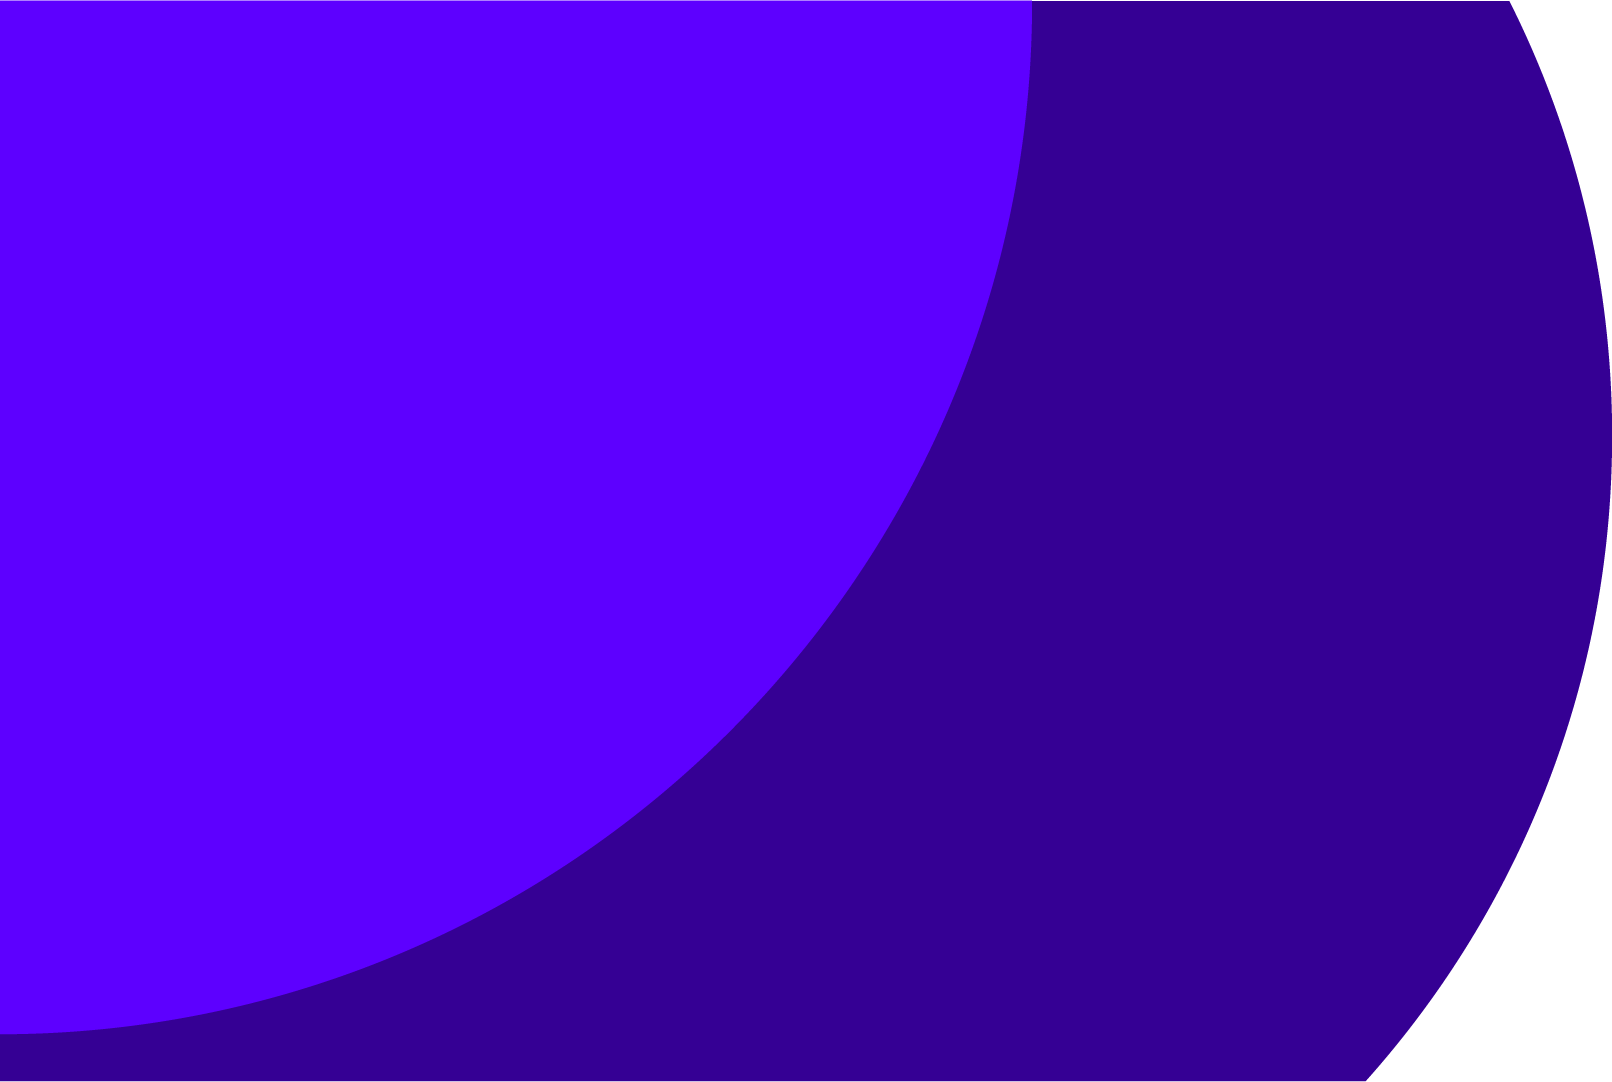
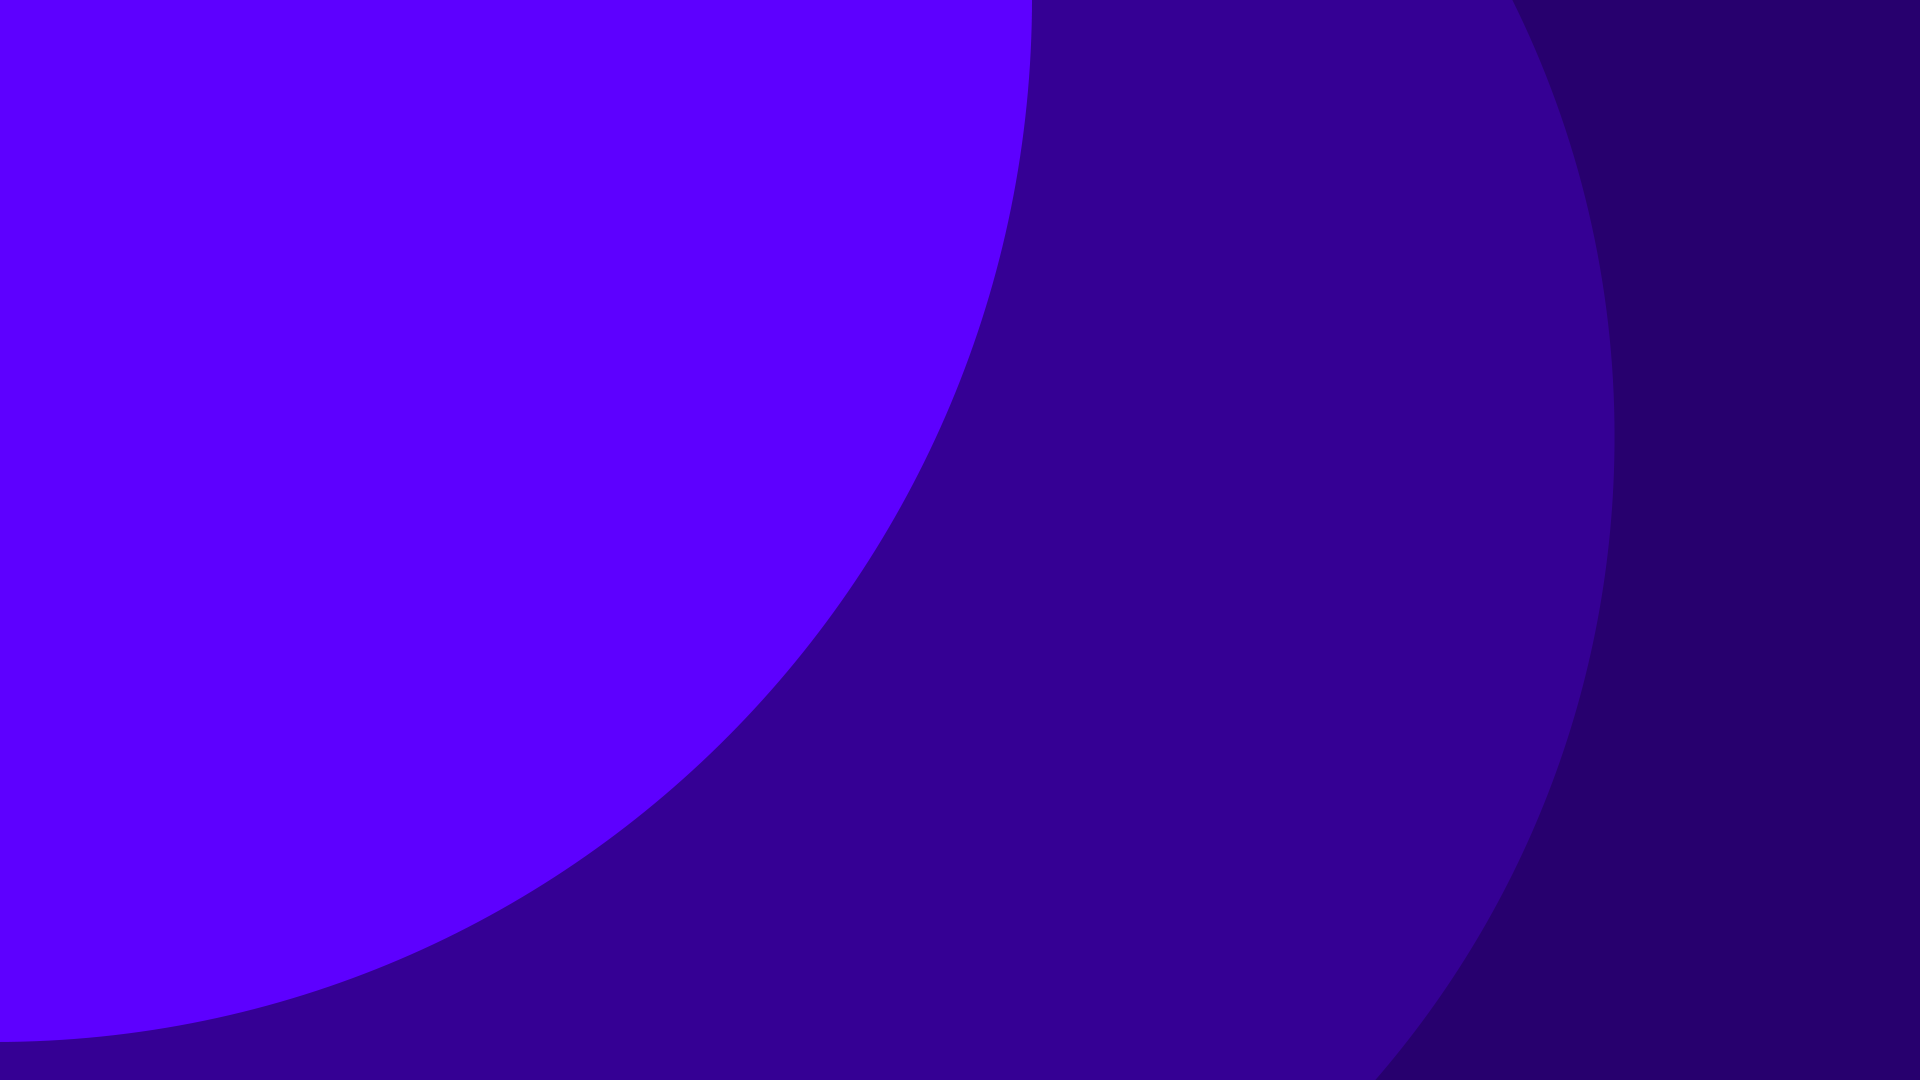
Added some responsive functionality

Changed region(s): [[0.7134, 0.0, 1.0, 1.0], [0.1551, 0.0, 0.6514, 0.9472], [0.0, 0.9472, 0.0931, 0.9778]]

diff --git a/src/style/global.scss b/src/style/global.scss
@@ -64,9 +64,8 @@ nav img {
 	top: 0;
 	left: 0;
 
-	background-image: url("../images/SVG/Blobs.svg");
-	background-repeat: no-repeat;
-	background-size: auto;
+	background: url("../images/PNG/Blobs.png") no-repeat center center fixed;
+	background-size: cover;
 
 	color: #ffffff;
 
@@ -77,8 +76,61 @@ nav img {
 	padding: 0;
 }
 
+#backgrd h1 {
+	font-family: "Open Sans", sans-serif;
+	font-weight: 700;
+
+	font-size: 15em;
+
+	width: 32vw;
+
+	position: fixed;
+	left: 25%;
+	top: 25%;
+
+	transform: translate(-50%, -50%);
+}
+
+#backgrd h1 #subtext {
+	font-family: 'Montserrat';
+	font-weight: 300;
+
+	font-size: 0.4em;
+
+	display: flex;
+	flex-direction: row;
+	justify-content: space-between;
+
+	width: 9.7em;
+
+	text-align: center;
+
+	position: relative;
+	transform:  translateY(-50%);
+}
+
 @media screen and (max-width: 415px) {
 	#backgrd {
 		background-image: url("../images/SVG/BlobsMobile.svg");
+		text-align: center;
+	}
+
+	#backgrd h1 {
+		top: 10%;
+		left: 50%;
+
+		position: relative;
+		text-align: center;
+
+		font-size: 5em;
+
+		transform: translate(-50%, 0);
+
+		width: 100%;
+	}
+
+	#backgrd h1 #subtext {
+		transform: translate(-50%, -50%);
+		left: 50%;
 	}
 }

diff --git a/src/App.tsx b/src/App.tsx
@@ -9,7 +9,24 @@ function App() {
 	return (
 		<div className='App'>
 			<header className='App-header' />
-			<div id='backgrd' />
+			<div id='backgrd'>
+				<h1>
+					NERDEE<br />
+					<span id='subtext'>
+						<span>D</span>
+						<span>A</span>
+						<span>T</span>
+						<span>E</span>
+						<span> </span>
+						<span>A</span>
+						<span> </span>
+						<span>T</span>
+						<span>E</span>
+						<span>C</span>
+						<span>H</span>
+					</span>
+				</h1>
+			</div>
 		</div>
 	);
 }

diff --git a/src/style/main.scss b/src/style/main.scss
@@ -1,16 +1,16 @@
-#blobs {
-	margin: 0;
-	padding: 0;
+// #blobs {
+// 	margin: 0;
+// 	padding: 0;
 
-	position: absolute;
-	top: 0;
-	left: 0;
+// 	position: absolute;
+// 	top: 0;
+// 	left: 0;
 
-	height: 100vh;
-}
+// 	height: 100vh;
+// }
 
-@media screen and (max-width: 800px) {
-	#blobs {
-		height: 100%;
-	}
-}
+// @media screen and (max-width: 800px) {
+// 	#blobs {
+// 		height: 100%;
+// 	}
+// }
